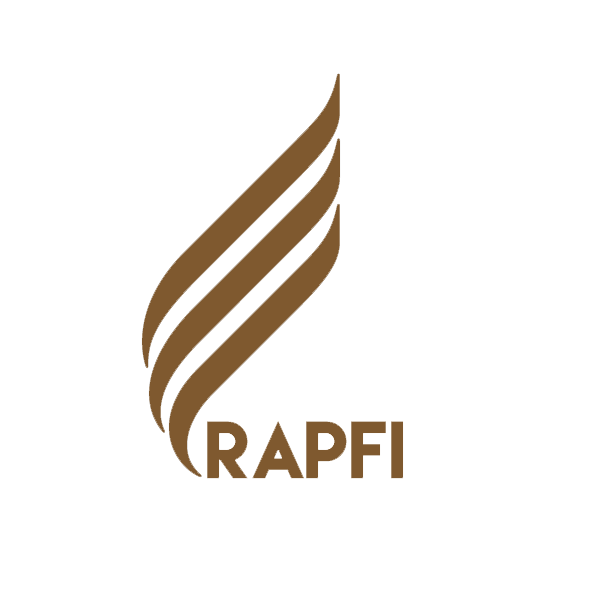
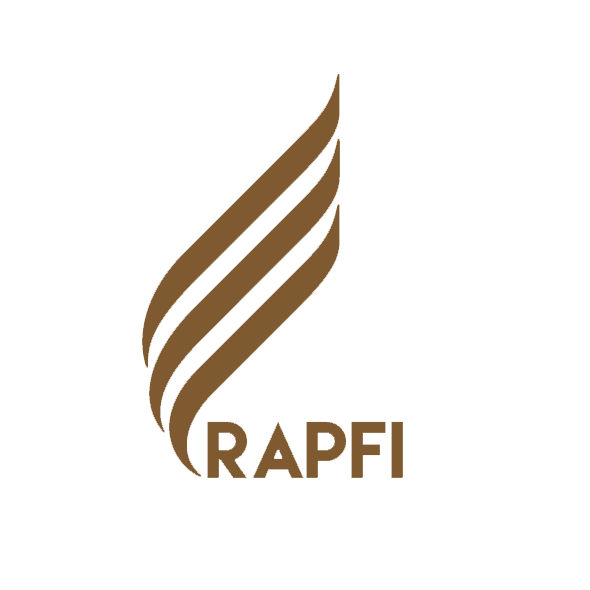
feat: améliorations visuelles et animations sur Login, Dashboard, Profile et autres composants

diff --git a/frontend/src/components/Login.js b/frontend/src/components/Login.js
@@ -26,20 +26,19 @@ export default function Login({ onLogin }) {
 
   return (
     <div
-      className="min-h-screen flex items-center justify-center py-12 px-4 sm:px-6 lg:px-8 relative overflow-hidden bg-cover bg-center bg-no-repeat"
+      className="min-h-screen flex items-center justify-end py-12 px-4 sm:px-6 lg:px-8 relative overflow-hidden bg-cover bg-center bg-no-repeat"
       style={{ backgroundImage: `url('/Login.png')` }}
     >
-      {/* Overlay animé pour améliorer la lisibilité */}
-      <div className="absolute inset-0 bg-gradient-to-br from-amber-900/40 via-orange-900/30 to-rose-900/40 backdrop-blur-[2px]"></div>
+      {/* Overlay plus léger pour la lisibilité */}
+      <div className="absolute inset-0 bg-gradient-to-l from-amber-900/30 via-orange-900/20 to-transparent backdrop-blur-[1px]"></div>
 
-      {/* Cercles décoratifs animés */}
+      {/* Cercles décoratifs animés (moins visibles) */}
       <div className="absolute inset-0 overflow-hidden pointer-events-none">
-        <div className="absolute -top-20 -left-20 w-96 h-96 bg-amber-300/20 rounded-full animate-spin-slow blur-3xl"></div>
-        <div className="absolute -bottom-20 -right-20 w-96 h-96 bg-rose-300/20 rounded-full animate-spin-slow blur-3xl" style={{ animationDirection: 'reverse' }}></div>
-        <div className="absolute top-1/2 left-1/2 -translate-x-1/2 -translate-y-1/2 w-64 h-64 bg-orange-300/10 rounded-full animate-pulse blur-2xl"></div>
+        <div className="absolute -top-20 -left-20 w-96 h-96 bg-amber-300/10 rounded-full animate-spin-slow blur-3xl"></div>
+        <div className="absolute -bottom-20 -right-20 w-96 h-96 bg-rose-300/10 rounded-full animate-spin-slow blur-3xl" style={{ animationDirection: 'reverse' }}></div>
       </div>
 
-      {/* Animations CSS */}
+      {/* Animations CSS (inchangées) */}
       <style>{`
         @keyframes float {
           0% { transform: translateY(0px); }
@@ -110,7 +109,8 @@ export default function Login({ onLogin }) {
         }
       `}</style>
 
-      <div className="max-w-5xl w-full glass-card rounded-3xl shadow-2xl p-8 md:p-10 flex flex-col md:flex-row gap-8 items-center justify-center relative z-10 animate-fadeInUp">
+      {/* Conteneur décalé à droite avec un espace sur la gauche */}
+      <div className="max-w-5xl w-full glass-card rounded-3xl shadow-2xl p-8 md:p-10 flex flex-col md:flex-row gap-8 items-center justify-center relative z-10 animate-fadeInUp md:mr-8 lg:mr-16">
         {/* Colonne gauche : formulaire */}
         <div className="flex-1 w-full max-w-md mx-auto">
           <div className="text-center">